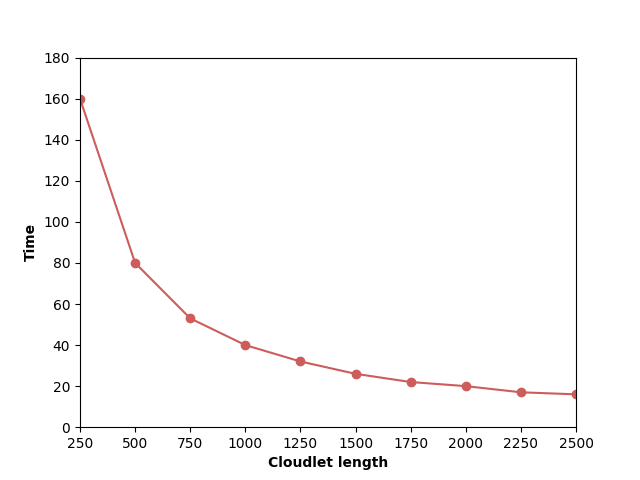
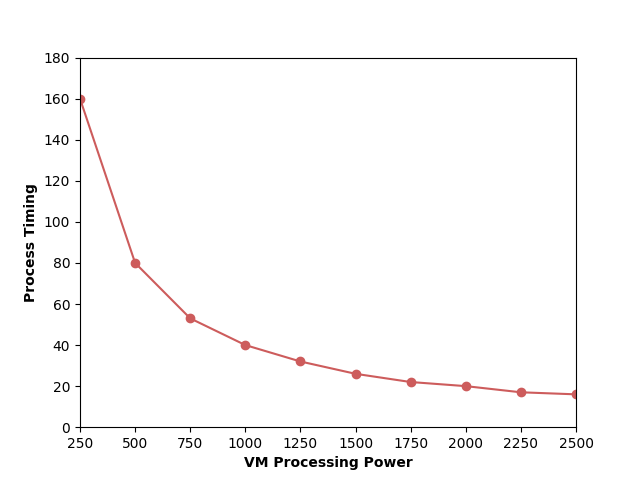
fixing label

Changed region(s): [[0.375, 0.9375, 0.6562, 1.0], [0.0312, 0.375, 0.0625, 0.625]]

diff --git a/plotter/cases.py b/plotter/cases.py
@@ -35,8 +35,8 @@ def vm_processing_power_vs_process_timing(input, output):
     data = pd.read_csv(input).sort_values('x')
     plt.plot(data['x'], data['finishTime'], c='indianred')
     plt.plot(data['x'], data['finishTime'], 'o', c='indianred')
-    plt.xlabel('Cloudlet length', weight='bold')
-    plt.ylabel('Time', weight='bold')
+    plt.xlabel('VM Processing Power', weight='bold')
+    plt.ylabel('Process Timing', weight='bold')
     plt.axis([250, 2500, 0, 180])
     plt.savefig('output/VmProcessingPowerVsProcessTiming.png')
     plt.clf()
@@ -241,7 +241,7 @@ def vm_ram_vs_cloudlet_completion_time_space_shared(input, output):
         plt.bar(sets[i][0], sets[i][1], bottom=bawah[i]
                 [1], width=width, label=times[i])
 
-    plt.xlabel('Bandwidth', weight='bold')
+    plt.xlabel('VM Ram', weight='bold')
     plt.ylabel('Completion Percentage(%)', weight='bold')
     plt.xticks(x, x)
     plt.legend()
@@ -280,7 +280,7 @@ def vm_ram_vs_cloudlet_completion_time_time_shared(input, output):
         plt.bar(sets[i][0], sets[i][1], bottom=bawah[i]
                 [1], width=width, label=times[i])
 
-    plt.xlabel('Bandwidth', weight='bold')
+    plt.xlabel('VM Ram', weight='bold')
     plt.ylabel('Completion Percentage(%)', weight='bold')
     plt.xticks(x, x)
     plt.legend()
